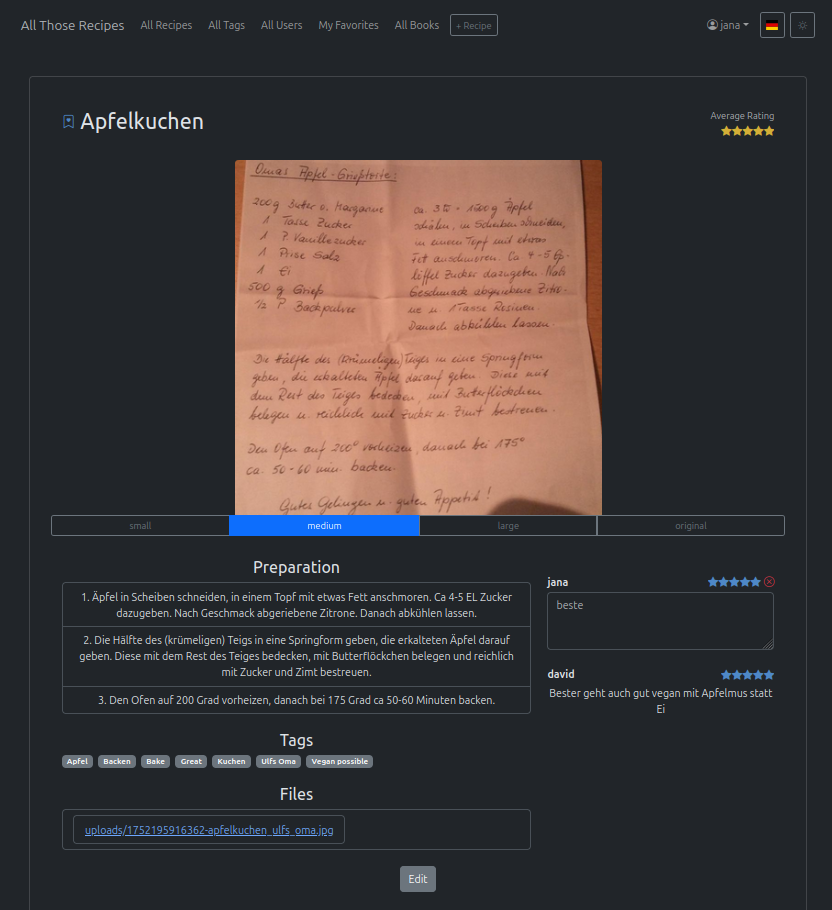
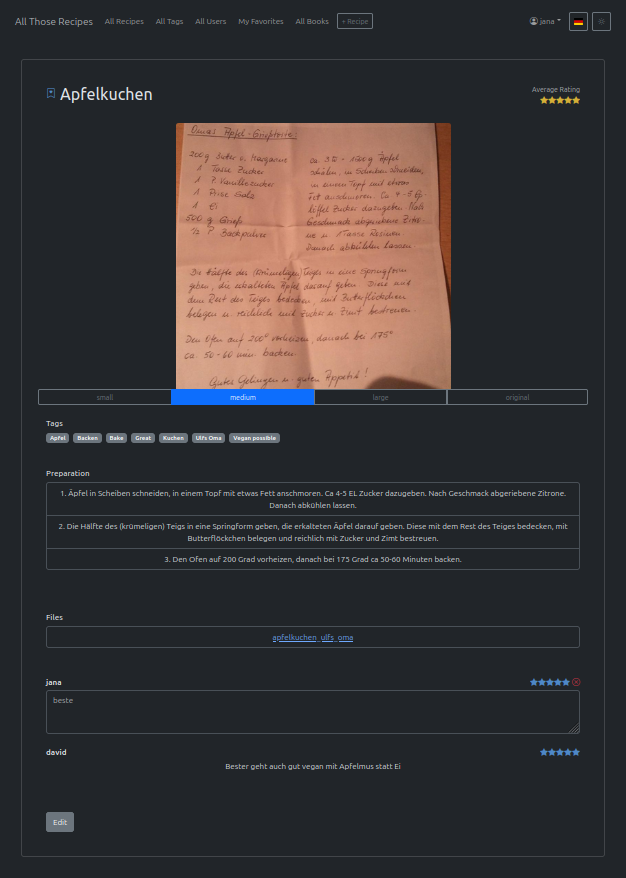
cleanup recipe layout

diff --git a/frontend/src/pages/RecipeDetail.tsx b/frontend/src/pages/RecipeDetail.tsx
@@ -142,56 +142,13 @@ const RecipeDetail = () => {
                         />
                     </div>
                 )}
+
                 <Card.Body>
                     <Row>
-                        {/* Left Column */}
-                        <Col md={8}>
-                            {recipe.ingredients && recipe.ingredients.length > 0 && (
-                                <>
-                                    <h4>{t("recipe.ingredients")}</h4>
-                                    <ListGroup className="mb-4">
-                                        {recipe.ingredients.map((group, idx) => (
-                                            <div key={idx}>
-                                                {group.group && <h6 className="mt-3">{group.group}</h6>}
-                                                {group.items.map((ingredient, i) => (
-                                                    <ListGroup.Item key={i}>
-                                                        {ingredient.amount} {ingredient.name}
-                                                    </ListGroup.Item>
-                                                ))}
-                                            </div>
-                                        ))}
-                                    </ListGroup>
-                                </>
-                            )}
-
-                            {recipe.steps && recipe.steps.length > 0 && (
-                                <>
-                                    <h4>{t("recipe.steps")}</h4>
-                                    <ListGroup numbered className="mb-4">
-                                        {recipe.steps.map((step, i) => (
-                                            <ListGroup.Item key={i}>{step}</ListGroup.Item>
-                                        ))}
-                                    </ListGroup>
-                                </>
-                            )}
-
-                            {recipeBook && (
-                                <>
-                                    <h4>{t('recipe.book')}</h4>
-                                    <div
-                                        role="button"
-                                        className="text-primary mb-2"
-                                        style={{cursor: "pointer"}}
-                                        onClick={() => goToBook(recipeBook)}
-                                    >
-                                        {recipeBook.name}
-                                    </div>
-                                </>
-                            )}
-
+                        <Col>
                             {recipe.tags && recipe.tags.length > 0 && (
                                 <>
-                                    <h4>{t("recipe.tags")}</h4>
+                                    <Card.Subtitle className="text-start mb-2">{t("recipe.tags")}</Card.Subtitle>
                                     <Stack direction="horizontal" gap={2} className="flex-wrap mb-4">
                                         {recipe.tags
                                             .map(tagId => tags.find(t => t.id === tagId))
@@ -204,75 +161,132 @@ const RecipeDetail = () => {
                                     </Stack>
                                 </>
                             )}
-
-                            {recipe.links && recipe.links.length > 0 && (
-                                <>
-                                    <h4>{t("recipe.links")}</h4>
-                                    <ListGroup className="mb-4">
-                                        {recipe.links.map((link, i) => (
-                                            <ListGroup.Item
-                                                key={i}
-                                                action
-                                                href={link}
-                                                target="_blank"
-                                                rel="noopener noreferrer"
-                                            >
-                                                {link}
-                                            </ListGroup.Item>
-                                        ))}
-                                    </ListGroup>
-                                </>
-                            )}
-
-                            {recipe.files?.length && (
-                                <>
-                                    <h4>{t("recipe.files")}</h4>
-                                    <ListGroup>
-                                        {recipe.files.map((file, i) => {
-                                            if (!file.fileUrl) return null;
-                                            return (
-                                                <ListGroup.Item key={`file-${i}`}>
-                                                    <a href={`/${file.fileUrl}`} download>
-                                                        {file.fileUrl}
-                                                    </a>
-                                                </ListGroup.Item>
-                                            );
-                                        })}
-                                    </ListGroup>
-                                </>
-                            )}
                         </Col>
-
-                        {/* Right Column */}
-                        <Col md={4}>
-                            <ReviewList
-                                reviews={recipe.reviews || []}
-                                username={user ?? ''}
-                                onUpdate={async (updated) => {
-                                    const rest = (recipe.reviews || []).filter(r => r.username !== updated.username);
-                                    const updatedRecipe = {...recipe, reviews: [...rest, updated]};
-                                    const res = await changeRecipe(updatedRecipe);
-                                    updateRecipe(res);
-                                }}
-                            />
+                        <Col>
+                            {recipeBook && (
+                                <>
+                                    <Card.Subtitle className="text-start mb-2">{t('recipe.book')}</Card.Subtitle>
+                                    <div
+                                        role="button"
+                                        className="text-start text-primary mb-2"
+                                        style={{cursor: "pointer"}}
+                                        onClick={() => goToBook(recipeBook)}
+                                    >
+                                        {recipeBook.name}
+                                    </div>
+                                </>
+                            )}
                         </Col>
                     </Row>
+                </Card.Body>
 
-                    <div className="mt-4">
+                <Card.Body>
+                    <Row>
+                        {recipe.ingredients && recipe.ingredients.length > 0 && (
+                            <Col>
+                                <Card.Subtitle className="text-start mb-2">{t("recipe.ingredients")}</Card.Subtitle>
+                                <ListGroup className="mb-4">
+                                    {recipe.ingredients.map((group, idx) => (
+                                        <div key={idx}>
+                                            {group.group && <h6 className="text-start mt-3">{group.group}</h6>}
+                                            {group.items.map((ingredient, i) => (
+                                                <ListGroup.Item key={i}>
+                                                    {ingredient.amount} {ingredient.name}
+                                                </ListGroup.Item>
+                                            ))}
+                                        </div>
+                                    ))}
+                                </ListGroup>
+                            </Col>
+                        )}
+                        {recipe.steps && recipe.steps.length > 0 && (
+                            <Col>
+                                <Card.Subtitle className="text-start mb-2">{t("recipe.steps")}</Card.Subtitle>
+                                <ListGroup numbered className="mb-4">
+                                    {recipe.steps.map((step, i) => (
+                                        <ListGroup.Item key={i}>{step}</ListGroup.Item>
+                                    ))}
+                                </ListGroup>
+                            </Col>
+                        )}
+                    </Row>
+                </Card.Body>
+
+                <Card.Body>
+                    {recipe.links && recipe.links.length > 0 && (
+                        <>
+                            <Card.Subtitle className="text-start mb-2">{t("recipe.links")}</Card.Subtitle>
+                            <ListGroup className="mb-4">
+                                {recipe.links.map((link, i) => (
+                                    <ListGroup.Item
+                                        key={i}
+                                        action
+                                        href={link}
+                                        target="_blank"
+                                        rel="noopener noreferrer"
+                                    >
+                                        {link}
+                                    </ListGroup.Item>
+                                ))}
+                            </ListGroup>
+                        </>
+                    )}
+                </Card.Body>
+
+                <Card.Body>
+                    {recipe.files?.length && (
+                        <>
+                            <Card.Subtitle className="text-start mb-2">{t("recipe.files")}</Card.Subtitle>
+                            <ListGroup>
+                                {recipe.files.map((file, i) => {
+                                    if (!file.fileUrl) return null;
+                                    // Extract just the filename (without path and extension)
+                                    const fileName = file.fileUrl
+                                        .split('/').pop()!                // "1757936365845-Screenshot-from-2024-12-27-23-38-07.png"
+                                        .replace(/^\d+-/, '')             // remove leading numbers + dash
+                                        .replace(/\.[^/.]+$/, '');        // remove extension
+                                    return (
+                                        <ListGroup.Item key={`file-${i}`}>
+                                            <a href={`/${file.fileUrl}`} download>
+                                                {fileName}
+                                            </a>
+                                        </ListGroup.Item>
+                                    );
+                                })}
+                            </ListGroup>
+                        </>
+                    )}
+                </Card.Body>
+
+                <Card.Body>
+                    <ReviewList
+                        reviews={recipe.reviews || []}
+                        username={user ?? ''}
+                        onUpdate={async (updated) => {
+                            const rest = (recipe.reviews || []).filter(r => r.username !== updated.username);
+                            const updatedRecipe = {...recipe, reviews: [...rest, updated]};
+                            const res = await changeRecipe(updatedRecipe);
+                            updateRecipe(res);
+                        }}
+                    />
+                </Card.Body>
+
+                <Card.Body>
+                    <div className="text-start mt-4">
                         <Button variant="secondary"
                                 onClick={() => setShowEditRecipe(true)}
                         >{t("recipe.edit")}</Button>
                     </div>
+                    <AddEditRecipeModal
+                        show={showEditRecipe}
+                        onClose={() => setShowEditRecipe(false)}
+                        addRecipe={addNewRecipe}
+                        updateRecipe={updateRecipe}
+                        mode="edit"
+                        initialRecipe={recipe}
+                    />
                 </Card.Body>
             </Card>
-            <AddEditRecipeModal
-                show={showEditRecipe}
-                onClose={() => setShowEditRecipe(false)}
-                addRecipe={addNewRecipe}
-                updateRecipe={updateRecipe}
-                mode="edit"
-                initialRecipe={recipe}
-            />
         </Container>
     );
 };
